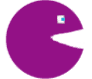
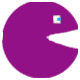
minimal colisions working. No trail in drawing

Changed region(s): [[0.225, 0.0, 0.975, 1.0], [0.025, 0.0506, 0.3, 0.8861], [0.6, 0.1772, 0.775, 0.3038]]

diff --git a/pac-q.py b/pac-q.py
@@ -22,12 +22,13 @@ blue = (0,0,200)
 #Size of the main character
 pacq_width = 80
 orientation = "r"
+speed = 1
 
 #Global variable with the score
 score = 0
 
 #Map
-mapa = [[0,0,0,0,0,0,0,0],[0,1,1,1,1,0,0,0],[0,0,0,0,0,0,0,0],[0,0,0,0,0,0,0,0],[0,0,0,0,0,0,0,0],[0,0,0,0,0,0,0,0],[0,0,0,0,0,0,0,0]]
+mapa = [[0,0,0,0,0,0,0,0],[0,0,1,1,1,1,0,0],[0,0,1,0,0,1,0,0],[0,0,0,0,0,0,0,0],[0,0,1,0,0,1,0,0],[0,0,1,1,1,1,0,0],[0,0,0,0,0,0,0,0]]
 
 #Set the size of the game area.
 gameDisplay = pygame.display.set_mode((display_width,display_height))
@@ -105,9 +106,40 @@ def message_display(text):
   gameDisplay.blit(TextSurf, TextRect)
   pygame.display.update()
 #  pygame.quit()
-
 #Wait
   time.sleep(2)
+
+def colisionesup(mapas,x,y,xx,yy):
+  for cuadrante in reversed(mapas):
+    if y == cuadrante[3]+1 and x >= cuadrante[0] and x <= cuadrante[1]:
+      return True
+    elif y == cuadrante[3]+1 and xx >= cuadrante[0] and xx <= cuadrante[1]:
+      return True
+  return False
+
+def colisionesd(mapas,x,y,xx,yy):
+  for cuadrante in mapas:
+    if yy == cuadrante[2]+1 and x >= cuadrante[0] and x <= cuadrante[1]:
+      return True
+    elif yy == cuadrante[2]+1 and xx >= cuadrante[0] and xx <= cuadrante[1]:
+      return True
+  return False
+
+def colisionesl(mapas,x,y,xx,yy):
+  for cuadrante in reversed(mapas):
+    if x == cuadrante[1]+1 and y >= cuadrante[2] and y <= cuadrante[3]:
+      return True
+    elif x == cuadrante[1]+1 and yy >= cuadrante[2] and yy <= cuadrante[3]:
+      return True
+  return False
+
+def colisionesr(mapas,x,y,xx,yy):
+  for cuadrante in reversed(mapas):
+    if xx == cuadrante[0]+1 and y >= cuadrante[2] and y <= cuadrante[3]:
+      return True
+    elif xx == cuadrante[0]+1 and yy >= cuadrante[2] and yy <= cuadrante[3]:
+      return True
+  return False
 
 #Game Over!
 def gameover():
@@ -140,11 +172,12 @@ def game_intro():
 
 #GameLogic
 def game_loop():
+  global speed
 #  game_intro()
   global orientation
 #Start position of the character?
-  X = int(display_width * 0.45)
-  Y = int(display_height * 0.8)
+  X = 360
+  Y = 520
 
 #The character movement
   x_change = 0
@@ -172,12 +205,15 @@ def game_loop():
 #Flag to know if the game loop should exit
   gameexit = False
 
+  collisiones = []
 
-#Pintar Mapa
-#for F in range(len(matriz)):
-#    for C in range(len(matriz[0])):
-#        print(matriz[F][C],end = ' ')
-#    print(' ')
+  down_pressed = False
+
+#Armar Mapa
+  for F in range(len(mapa)):
+      for C in range(len(mapa[F])):
+          if mapa[F][C]:
+            collisiones.append(((80*C),((80*C)+80),(80*F),((80*F)+80)))
 
 #PINTAR FONDO
   gameDisplay.fill(grey)
@@ -185,18 +221,14 @@ def game_loop():
   pygame.draw.rect(gameDisplay, blue, [ub_startx, ub_starty, ub_width, ub_height])
   pygame.draw.rect(gameDisplay, blue, [lb_startx, lb_starty, lb_width, lb_height])
 
+#PINTAR MAPA
+  for cuadro in collisiones:
+    pygame.draw.rect(gameDisplay, red, [cuadro[0], cuadro[2], pacq_width, pacq_width])
 
 #LOOP PRINCIPAL DEL JUEGO
 #LOOP PRINCIPAL DEL JUEGO
 #LOOP PRINCIPAL DEL JUEGO
   while not gameexit:
-
-    #Pintar sobre donde estuvieron los characters para que no dejen un trail
-    #    fantasmitas(t_startx, t_starty, t_width, t_height, black)
-    pygame.draw.rect(gameDisplay, grey, [t_startx, t_starty, t_width, t_height])
-    #    character(orientation,int(X),int(Y))
-    pygame.draw.rect(gameDisplay, grey, [int(X), int(Y), (int(X)+80), (int(Y)+80)])
-
 
     for event in pygame.event.get():
       if event.type == pygame.QUIT:
@@ -205,43 +237,68 @@ def game_loop():
 
       if event.type == pygame.KEYDOWN:
         if event.key == pygame.K_LEFT:
-          down_pressed = True
-          x_change = -4
+          #down_pressed = True
+          x_change = (0-speed)
           y_change = 0
           orientation = "l"
         elif event.key == pygame.K_RIGHT:
-          down_pressed = True
-          x_change = 4
+          #down_pressed = True
+          x_change = speed
           y_change = 0
           orientation = "r"
         elif event.key == pygame.K_UP:
-          down_pressed = True
-          y_change = -4
+          #down_pressed = True
+          y_change = (0-speed)
           x_change = 0
           orientation = "u"
         elif event.key == pygame.K_DOWN:
-          down_pressed = True
-          y_change = 4
+          #down_pressed = True
+          y_change = speed
           x_change = 0
           orientation = "d"
 
-      if event.type == pygame.KEYUP:
-        if event.key == pygame.K_LEFT or event.key == pygame.K_RIGHT:
-          down_pressed = False
-          x_change = 0
-        elif event.key == pygame.K_UP or event.key == pygame.K_DOWN:
-          down_pressed = False
-          y_change = 0
+      #if event.type == pygame.KEYUP:
+      #  if event.key == pygame.K_LEFT or event.key == pygame.K_RIGHT:
+      #    down_pressed = False
+      #    x_change = 0
+      #  elif event.key == pygame.K_UP or event.key == pygame.K_DOWN:
+      #    down_pressed = False
+      #    y_change = 0
 
 #AVOID GOING AWAY FROM PLAYING AREA
-    if (X < 100) and down_pressed and orientation == "l":
-      x_change = 0
-    if (X > (display_width - (pacq_width + 3))) and down_pressed and orientation == "r":
-      x_change = 0
-    if (Y < 40) and down_pressed and orientation == "u":
-      y_change = 0
-    if (Y > (display_height - (pacq_width + 3))) and down_pressed and orientation == "d":
-      y_change = 0
+#    if (X < 100) and down_pressed and orientation == "l":
+#      x_change = 0
+#    if (X > (display_width - (pacq_width + 3))) and down_pressed and orientation == "r":
+#      x_change = 0
+#    if (Y < 40) and down_pressed and orientation == "u":
+#      y_change = 0
+#    if (Y > (display_height - (pacq_width + 3))) and down_pressed and orientation == "d":
+#      y_change = 0
+
+    if orientation == "l":
+      if (X <= 101):
+        x_change = 0
+      elif colisionesl(collisiones,X,Y,(X+pacq_width),(Y+pacq_width)):
+        x_change = 0
+    
+    if orientation == "r":
+      if (X >= (display_width - (pacq_width + 3))):
+        x_change = 0
+      elif colisionesr(collisiones,X,Y,(X+pacq_width),(Y+pacq_width)):
+        x_change = 0
+
+    if orientation == "u":
+      if (Y <= 41):
+        y_change = 0
+      elif colisionesup(collisiones,X,Y,(X+pacq_width),(Y+pacq_width)):
+        y_change = 0
+    
+    if orientation == "d":
+      if (Y >= (display_height - (pacq_width + 3))):
+        y_change = 0
+      elif colisionesd(collisiones,X,Y,(X+pacq_width),(Y+pacq_width)):
+        y_change = 0
+
 
     X += x_change
     Y += y_change
@@ -254,14 +311,18 @@ def game_loop():
 
 
 #PINTAR PRIMERO LOS CUADRADOS POR DONDE PASO EL CARACTER, Y LUEGO PINTAR TODOS LOS CARACTERES EN PANTALLA
-
+    #Pintar sobre donde estuvieron los characters para que no dejen un trail
+    #    fantasmitas(t_startx, t_starty, t_width, t_height, black)
+    pygame.draw.rect(gameDisplay, grey, [t_startx, t_starty, t_width, t_height])
+    #    character(orientation,int(X),int(Y))
+    pygame.draw.rect(gameDisplay, grey, [X-1, Y-1, pacq_width, pacq_width])
 #ENEMIGOS
 #Hay que reworkear esto
     fantasmitas(t_startx, t_starty, t_width, t_height, black)
 #    t_starty = t_speed
 
 #DIBUJADO DE PACQ
-    character(orientation,int(X),int(Y))
+    character(orientation,X,Y)
 #    scored(score)
 
 #LOGIC
